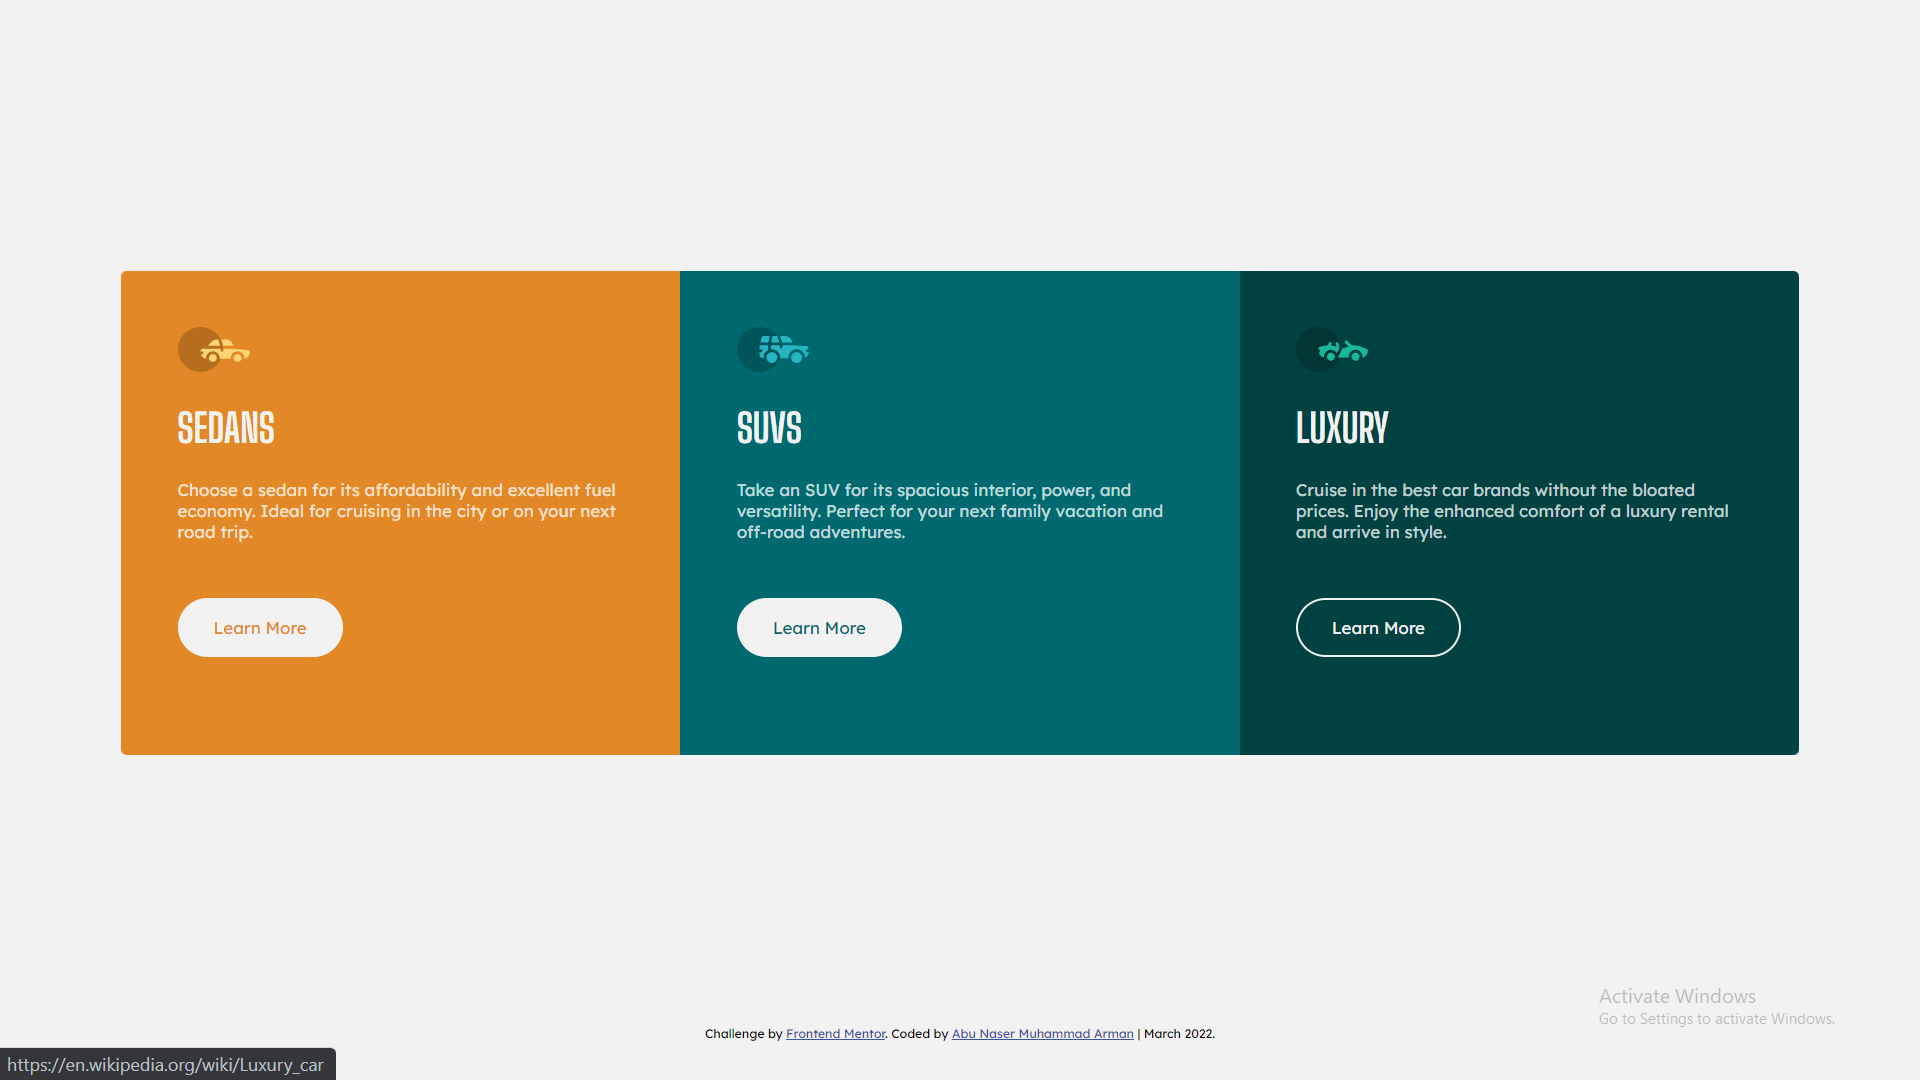
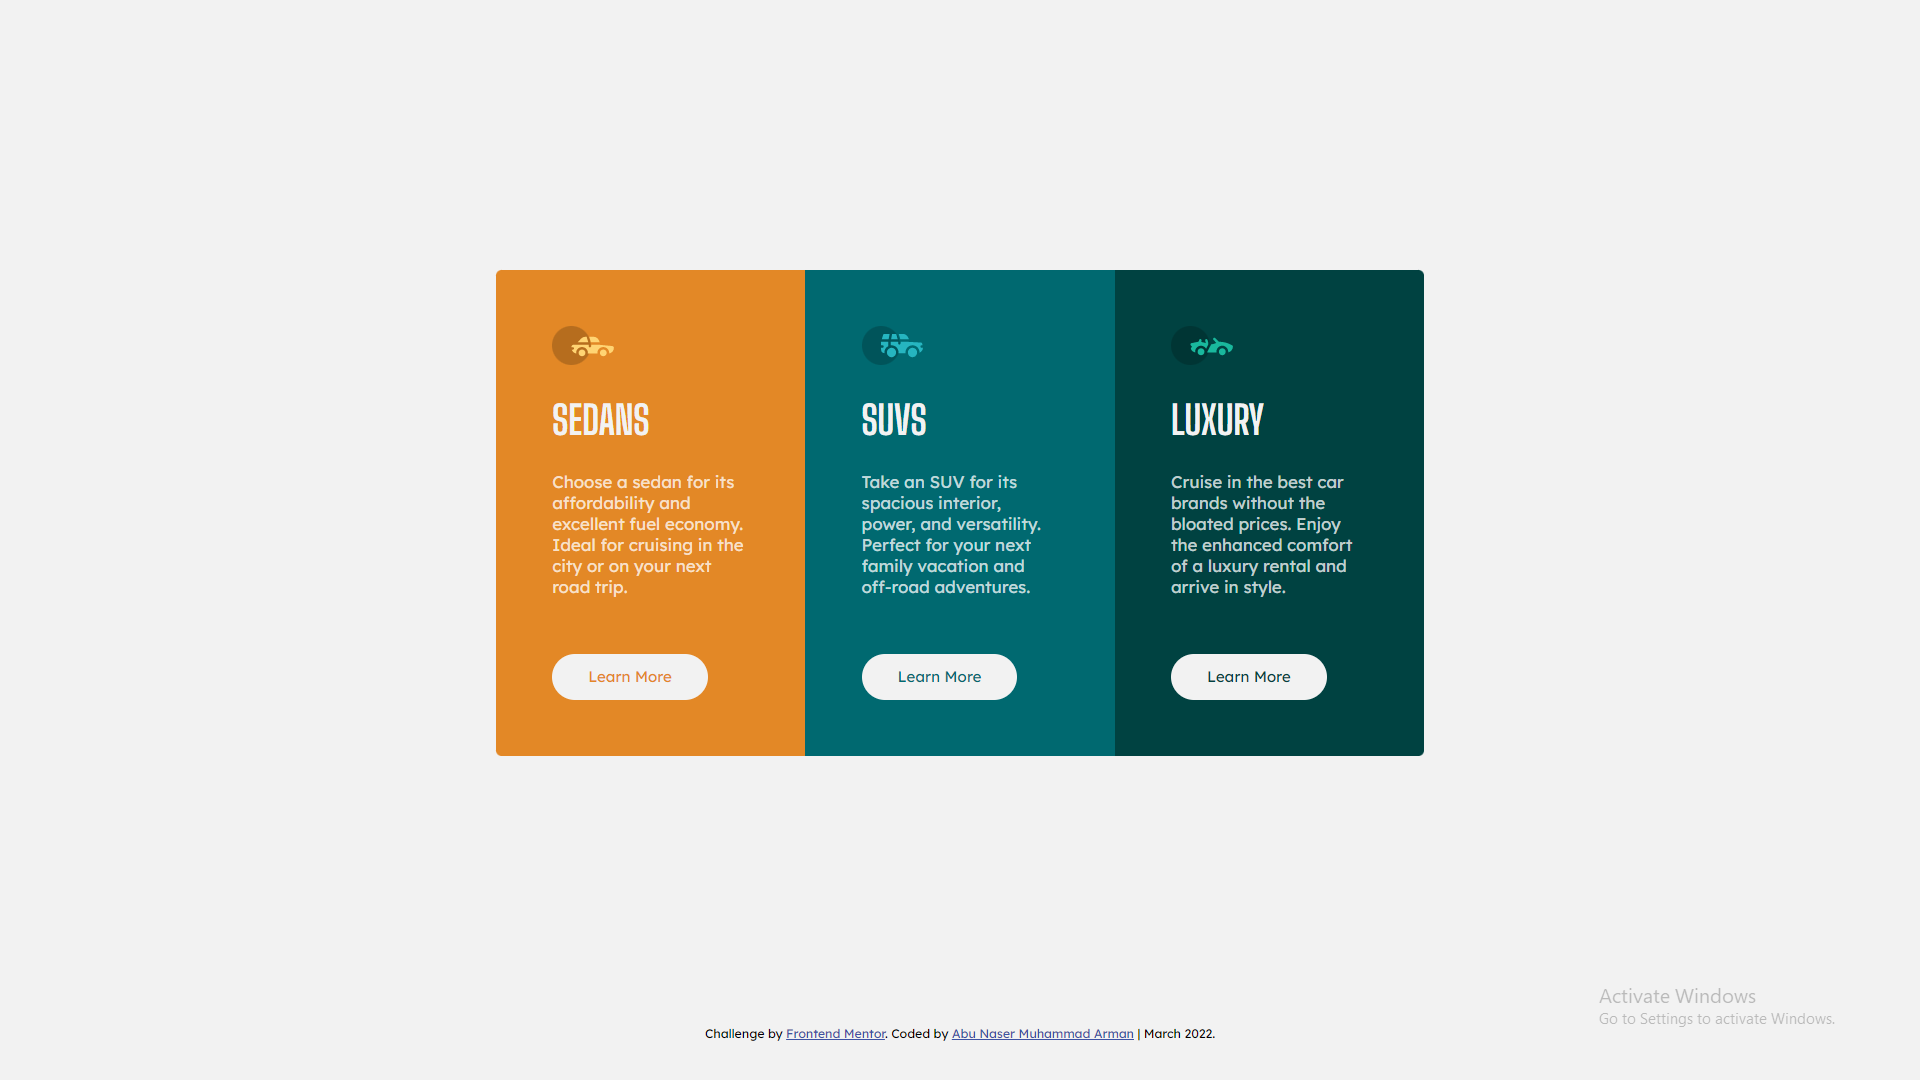
Tweaked some numbers i.e, width, padding etc,
Updated the readme file

Changed region(s): [[0.0625, 0.2444, 0.9375, 0.7028], [0.0, 0.9472, 0.1875, 1.0]]

diff --git a/styles/main.css b/styles/main.css
@@ -67,7 +67,7 @@ main {
 }
 
 .icon {
-  max-width: 66px;
+  max-width: 55px;
   margin: 0;
 }
 
@@ -90,10 +90,10 @@ main {
 
 .button {
   display: inline-block;  /* <a> tags are inline elements, applying inline block property would make it possible to add padding/margin to it  */
-  padding: 15px 30px;
+  padding: 10px 30px;
   background-color: var(--color-lightGray);
   font-family: 'Lexend Deca', sans-serif;
-  font-size: 1.5rem;
+  font-size: 1.35rem;
   font-weight: 400;
   text-decoration: none;  /* Removes all decorations i.e, color, underline from the button text. */
   border-radius: 50px;
@@ -133,9 +133,9 @@ main {
 @media screen and (min-width: 1025px) {
 
   .wrapper-cards>* {
-    width: 30%; /* Sets width of the cards to 30% of the container ( <main> ). Another random number to look visually similar to the design */
+  width: 275px; /*A random number to look visually similar to the design */
   }
-
+  
   .button {
     margin-top: calc(var(--margin-default) * 2);  /* Adds more margin to the top of the button to give it a breathing space  */
   }

diff --git a/README.md b/README.md
@@ -13,6 +13,7 @@ This is my solution to the [3-column preview card component challenge on Fronten
     - [What I learned](#what-i-learned)
     - [External Resources](#external-resources)
   - [Get Connected](#get-connected)
+  - [Acknowledgement](#acknowledgement)
 
 
 ## Overview
@@ -30,8 +31,8 @@ Users should be able to..
 
 ### Links
 
-- Solution URL: [Add solution URL here](https://your-solution-url.com)
-- [Live site URL](https://arman-anm.github.io/3-column-preview-card-component/)
+- [Solution](https://www.frontendmentor.io/solutions/solution-to-3column-previewcard-component-challenge-using-flexbox-h-YuBCn58)
+- [Live site](https://arman-anm.github.io/3-column-preview-card-component/)
 
 ### Built with
 
@@ -64,3 +65,6 @@ Users should be able to..
 - Instagram - [@arman_anm](https://www.instagram.com/arman_anm/)
 - Twitter - [@arman_anm](https://twitter.com/arman_anm)
 - Gmail - <armaan.anm@gmail.com>
+
+## Acknowledgement
+- Thanks to [Alazar Getachew](https://github.com/AlazarG19) for giving me valuable [feedbacks](https://www.frontendmentor.io/solutions/solution-to-3column-previewcard-component-challenge-using-flexbox-h-YuBCn58#comment-623850e08a1c69047217f8ab) after submitting my solution to Frontend Mentor 🙂
